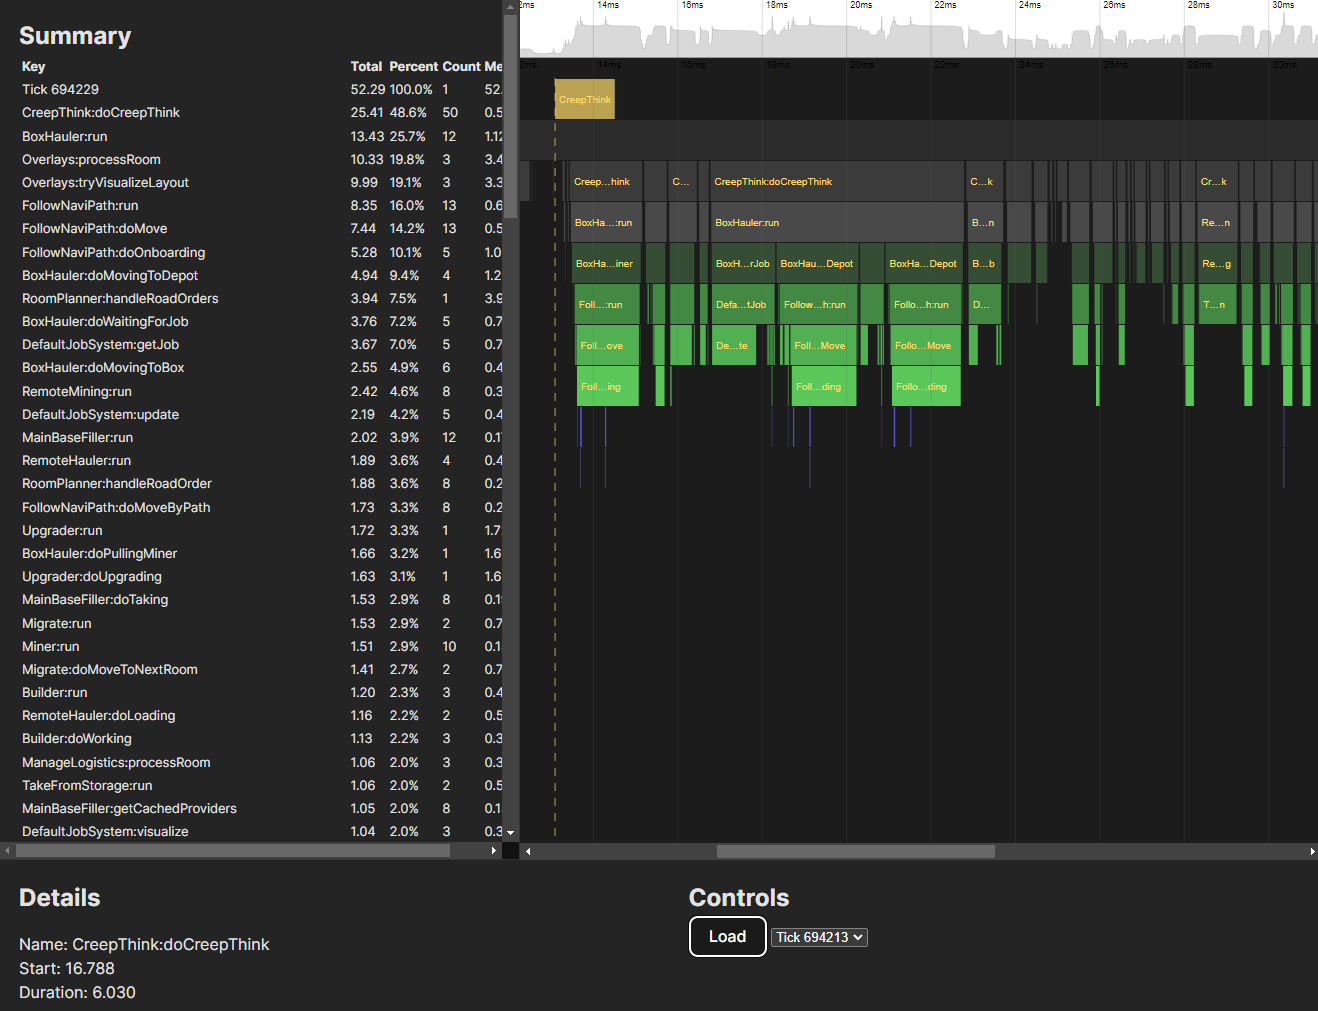
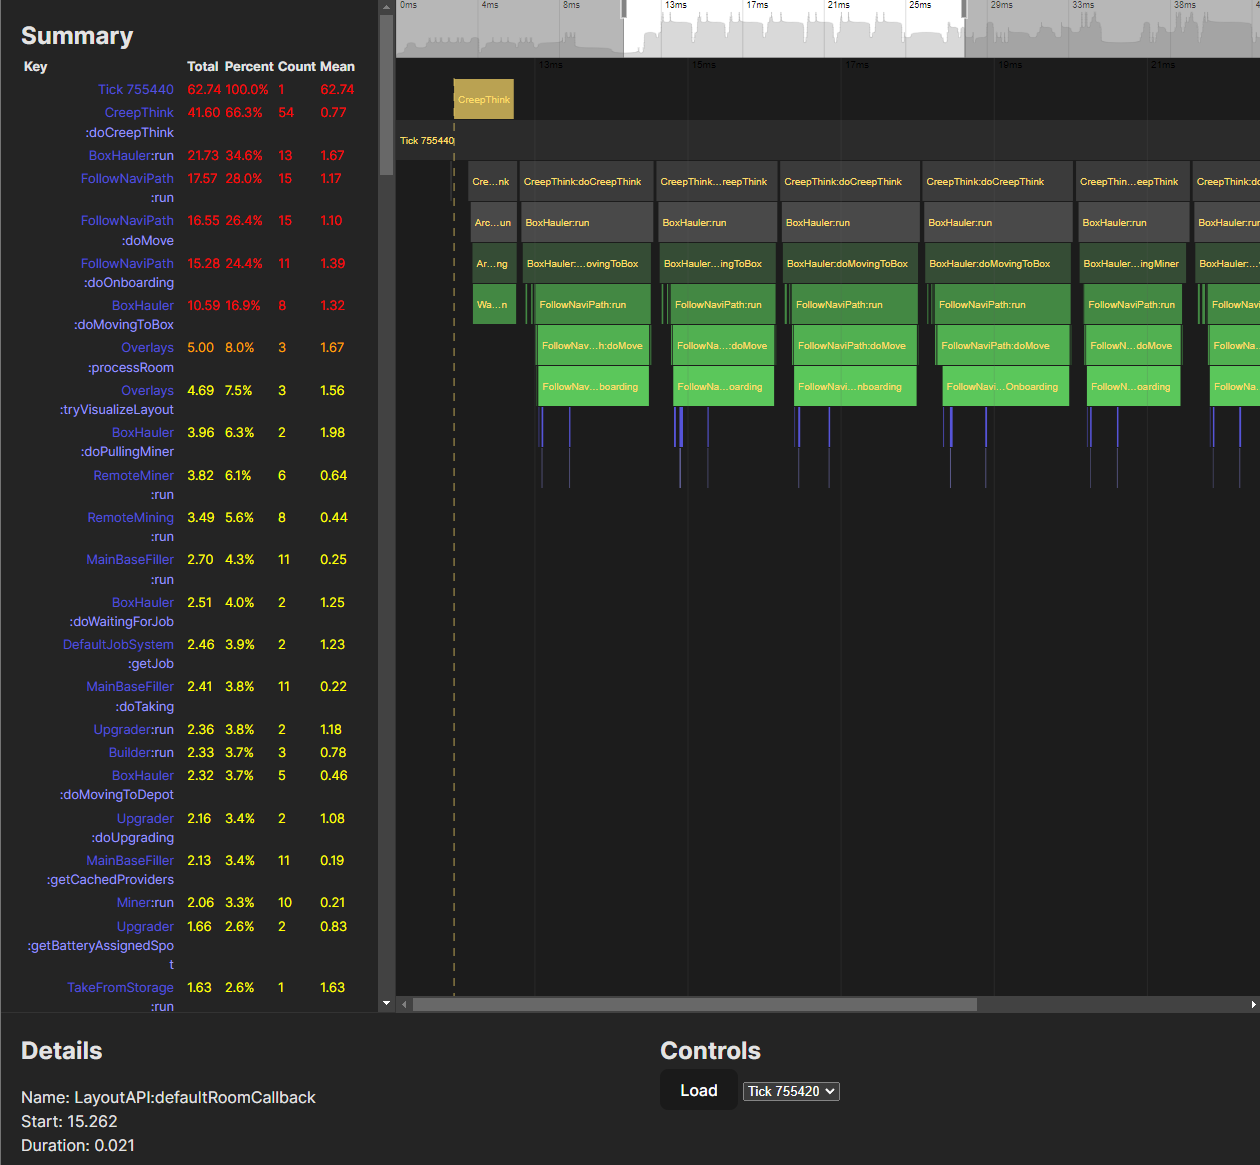
Improve sidebar and update screenshot

Changed region(s): [[0.0, 0.0, 1.0, 1.0]]

diff --git a/frontend/src/style.scss b/frontend/src/style.scss
@@ -13,6 +13,16 @@
   -moz-osx-font-smoothing: grayscale;
 }
 
+$color-screeps-background: #1c1c1c;
+$color-screeps-map: #2b2b2b;
+$color-screeps-lab: #3b3b3b;
+$color-screeps-energy: #fddc6a;
+$color-screeps-mapArrow: #494949;
+$color-screeps-rampart-middle: #354c35;
+$color-screeps-rampart-edge: #438843;
+$color-screeps-controller-dark: #5654d9;
+$color-screeps-controller-light: #9997fa;
+
 body {
   margin: 0;
 }
@@ -29,7 +39,7 @@ body {
   height: 80vh;
 
   .sidebar {
-    flex-basis: 480px;
+    // flex-basis: 380px;
     border: 1px solid #333;
     border-top: none;
     border-left: none;
@@ -44,9 +54,33 @@ body {
     table {
       font-size: 0.8em;
 
+      tr td:nth-child(1) {
+        text-align: right;
+        padding-right: 10px;
+        width: 150px;
+        max-width: 150px;
+        word-wrap: break-word;
+
+        span.key-class {
+          color: $color-screeps-controller-dark;
+        }
+
+        span.key-method {
+          color: $color-screeps-controller-light;
+        }
+      }
+
+      td {
+        vertical-align: text-bottom;
+      }
+
       tr:hover {
-        color: #fddc6a;
-        text-decoration: underline;
+        cursor: pointer;
+
+        td:not(:nth-child(1)) {
+          // color: $color-screeps-controller-light;
+          text-decoration: underline;
+        }
       }
     }
   }

diff --git a/frontend/src/main.ts b/frontend/src/main.ts
@@ -76,6 +76,22 @@ const getNodeColor = (depth: number, duration: number): string => {
 	return color;
 };
 
+const colorByTotalDuration = (duration: number): string => {
+	if (duration > 10) {
+		return "red";
+	}
+	if (duration > 5) {
+		return "orange";
+	}
+	if (duration > 1) {
+		return "yellow";
+	}
+	if (duration > 0.2) {
+		return "lightgreen";
+	}
+	return "white";
+};
+
 const bananNodeToFlameChartNode = (
 	bananNode: ProfilingNode,
 	depth = 0,
@@ -155,8 +171,26 @@ const renderSummary = (node: ProfilingNode) => {
 
 	for (const item of summary) {
 		const row = document.createElement("tr");
+		row.style.setProperty("color", colorByTotalDuration(item.total));
+		const keyParts = item.key.split(":");
+		let keySpans = [];
+
+		for (let i = 0; i < keyParts.length; i++) {
+			const part = keyParts[i];
+			if (i === 0) {
+				keySpans.push(`<span class="key-class">${part}</span>`);
+			} else {
+				keySpans.push(`<span class="key-method">:${part}</span>`);
+			}
+		}
+
+		if (item.key.length <= 14) {
+			// No need for breaks
+			keySpans = [keySpans.join("")];
+		}
+
 		const items: string[] = [
-			`<td>${item.key}</td>`,
+			`<td>${keySpans.join("<br>")}</td>`,
 			`<td>${item.total.toFixed(2)}</td>`,
 			`<td>${item.percent.toFixed(1)}%</td>`,
 			`<td>${item.count}</td>`,
